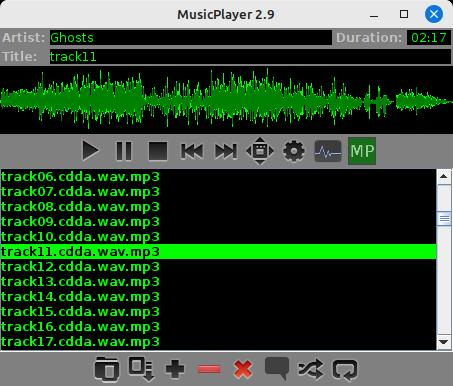
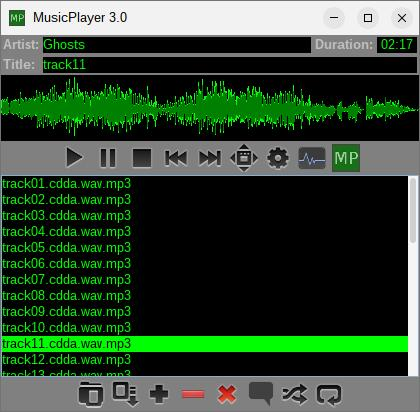
Long-overdue updates to README, in progress

diff --git a/docs/developer_extensions.md b/docs/developer_extensions.md
@@ -1,26 +1,27 @@
 <-- [Back to musicplayer documentation](../README.md)
 
-# Developer overview: Using `app-extensions` to extend the application
+# Developer overview: Using ExtensionManager to extend the application
 
-The abstract `ExtensionManager` class in the `app-extensions` library is deceptively powerful.
+The abstract `ExtensionManager` class in the `swing-extras` library is deceptively powerful.
 This class can scan a given directory for jar files, and then examine those jar files to see
 if they contain an extension class for your application. If so, that class can be loaded dynamically,
 and an instance of the extension that it contains can be provided to your application.
 
 We'll need to create two classes to make use of this:
-  - an implementation of the `AppExtension` interface
+  - an implementation of the `AppExtension` class
   - an implementation of the abstract `ExtensionManager` class
 
 ## Implementing an AppExtension
 
-Let's start by looking at the `AppExtension` interface:
+Let's start by looking at the `AppExtension` class:
 
 ```java
-public interface AppExtension {
+public abstract class AppExtension {
     public AppExtensionInfo getInfo();
-    public List<AbstractProperty> getConfigProperties();
+    protected List<AbstractProperty> createConfigProperties();
     public void onActivate();
     public void onDeactivate();
+    protected void loadJarResources();
 }
 ```
 
@@ -32,10 +33,11 @@ Well, we have to create them!
 
 But first, we deal with the absolute bare minimum required to create a custom `AppExtension`:
 
-- Implement `getInfo()` to return an `AppExtensionInfo` object describing your extension.
-- Implement `getConfigProperties()` to return an optional list of config properties for your extension. (This can be an empty list if your extension doesn't require any).
+- Implement `getInfo()` to return an `AppExtensionInfo` object describing your extension (mandatory!).
+- Implement `createConfigProperties()` to return an optional list of config properties for your extension. (This can be an empty list if your extension doesn't require any).
 - Implement `onActivate()` to do whatever prep work (if any) our extension needs before it gets to work.
 - Implement `onDeactivate()` to do whatever cleanup (if any) our extension needs before it gets shut down.
+- Implement `loadJarResources()` to load whatever jar resources our extension needs (if any)
 
 That's the bare minimum. But, our extension will not be terribly useful if that's all we do. We need to think about
 possible extension points within our application, and write abstract methods here for them.
@@ -124,10 +126,10 @@ of it, and in fact doesn't need to, as long as the extension lives up to the con
 
 Your extension may need to expose some configuration properties to be added to the `PropertiesDialog`, so that
 the user can set options for it. This is not a problem at all. In fact, this is one of the few methods
-that are defined in the `AppExtension` interface:
+that are defined in the `AppExtension` class:
 
 ```java
-public List<AbstractProperty> getConfigProperties();
+protected List<AbstractProperty> createConfigProperties();
 ```
 
 We just have to return a list of `AbstractProperty` instances, and the `AppProperties` class, together
@@ -166,6 +168,9 @@ specifies a readable directory. If so, that directory is scanned for compatible 
 are found are loaded as viable extensions.
 
 ### Specifying the jar directory
+
+(Note: if you ran the installer tarball on a Linux machine, you do not have to manually specify
+this location... the launcher script will do it for you)
 
 Since there is no default value, you have to manually specify the location to be scanned. Let's say we
 want to put extension jars in ~/.MusicPlayer/extensionJars :

diff --git a/docs/developer_overview.md b/docs/developer_overview.md
@@ -2,19 +2,18 @@
 
 # Developer overview: general application design
 
-The musicplayer app relies on three of my libraries:
+The musicplayer app relies heavily on my [swing-extras](https://github.com/scorbo2/swing-extras) library,
+which provides a LOT of neat utilities and custom code I've written in the last 15 years or so. This library
+also provides a powerful extension mechanism that allows applications to make themselves highly extensible.
 
-- [swing-forms](https://github.com/scorbo2/swing-forms) - provides a way to very easily generate user input forms in Java Swing.
-- [swing-extras](https://github.com/scorbo2/swing-extras) - provides a LOT of neat utilities and custom code I've written in the last 15 years or so.
-- [app-extensions](https://github.com/scorbo2/app-extensions) - provides an extension mechanism that allows you to write highly extensible applications.
+swing-extras is licensed under the [MIT license](https://opensource.org/license/mit), and the code for it is available on GitHub, 
+so I invite you to check it out. In this developer guide, we're going
+to be looking pretty closely at the extension mechanism supplied by swing-extras, because it's
+very powerful and quite useful.
 
-All of the above are licensed under the [MIT license](https://opensource.org/license/mit), and the code
-for each of them is available on github, so I invite you to check them out. In this developer guide, we're going
-to be looking pretty closely at `app-extensions`, because it has some really neat capabilities.
-
-Specifically, the `AppProperties` class in `app-extensions` is amazingly useful for saving yourself
+Specifically, the `AppProperties` class is amazingly useful for saving yourself
 a LOT of code. The purpose of this abstract class is to join together a `PropertiesManager` class
-(from `swing-extras`) with an `ExtensionManager` class (from `app-extensions`), and have them work
+(from `swing-extras`) with an `ExtensionManager` class (also from `swing-extras`), and have them work
 together to make your application MUCH easier to extend and configure. For example, in the user guide
 for music player, you probably saw at least one screenshot of the Properties dialog:
 
@@ -48,10 +47,10 @@ and its assistant class, `PropertiesDialog`.
 
 ## ExtensionManager is awesome
 
-Meanwhile, let's move over to the `app-extension` library, which also has a lot
-of very pleasant and powerful surprises. Specifically, we have the abstract
-`ExtensionManager` class, which allows us to dynamically scan a directory at
-startup, looking for jar files that contain extension classes for our application.
+Meanwhile, let's move over to the `ExtensionManager` class, which also has a lot
+of very pleasant and powerful surprises. Specifically, we have the ability
+to dynamically scan a directory at startup, looking for jar files that contain 
+extension classes for our application.
 Each extension can supply its own list of configuration properties, which we can
 combine together with our own application's properties to generate one unified
 `PropertiesDialog` that contains everything. The neat part about this is that
@@ -63,7 +62,7 @@ to sort that out - we get it for free.
 
 ## AppProperties is even awesomer
 
-The `app-extensions` library contains one more class that arguably is the best
+The `swing-extras` library contains one more class that arguably is the best
 part of this whole design: `AppProperties`. This abstract class joins a
 `PropertiesManager` together with a custom `ExtensionManager` together into
 one package, and links them up so that they are aware of each other.

diff --git a/README.md b/README.md
@@ -1,6 +1,6 @@
-# musicplayer
+# MusicPlayer
 
-This is "musicplayer", a 100% Java music player with a UI written in Java Swing. 
+This is "MusicPlayer", a 100% Java music player with a UI written in Java Swing. 
 
 ![MusicPlayer](docs/musicplayer.jpg "MusicPlayer")
 
@@ -18,23 +18,35 @@ Agreed. Go download VLC if you want something extremely solid and full-featured.
 
 I wanted to play music on the tv in my living room, but with interesting and customizable full-screen visualization
 so I could just leave it running and have something nice to look at while I do other stuff. With version 2.x, I 
-also used musicplayer as a testbed for my own [app-extensions](https://github.com/scorbo2/app-extensions) library 
+also used musicplayer as a testbed for my own app-extensions library
+(now part of [swing-extras](https://github.com/scorbo2/swing-extras))
 so I could test out ways to make an application incredibly customizable via dynamically-loaded extensions. I also 
 wanted to prove out the `AppProperties` class from `app-extensions` to really demonstrate how to develop an extremely 
-customizable application while writing surprisingly little UI code (in the case of the properties dialog, almost 
-literally none).
+customizable application while writing surprisingly little UI code (in the case of the properties dialog, and
+the extension manager, almost literally none).
 
 ## How do I get it?
 
-The easiest way is to clone the repo, build it with Maven, and run the jar file:
+You can download an installer tarball for Linux here:
+- [MusicPlayer-3.0.tar.gz](http://www.corbett.ca/apps/MusicPlayer-3.0.tar.gz)
+- Size: TODO MB
+- SHA-1: TODO
+
+Alternatively, you can clone the repo and build the project locally:
 
 ```shell
 git clone https://github.com/scorbo2/musicplayer.git
 cd musicplayer
 mvn package
 cd target
-java -jar musicplayer-3.0.jar
+java -jar musicplayer-3.0.jar # Launch the application manually
 ```
+
+If you have my [make-installer](https://github.com/scorbo2/install-scripts/) scripts installed and you are building
+on Linux, the installer tarball will be generated for you automatically during a build and placed into `target`.
+This is preferable to launching manually as shown above, at least when running on a Linux machine, because the
+installer script will create a launcher wrapper script with proper environment variables set (and you get a nice
+user-friendly desktop icon for easy launching).
 
 ## User guide
 
@@ -45,7 +57,7 @@ java -jar musicplayer-3.0.jar
 
 - [General application design](docs/developer_overview.md)
 - [Making use of `swing-extras` for application configuration](docs/developer_properties.md)
-- [Making use of `app-extensions` to customize the app](docs/developer_extensions.md)
+- [Making use of ExtensionManager to customize the app](docs/developer_extensions.md)
 - [Exercise1: let's write a custom extension!](docs/developer_exercise1.md)
 - [Exercise2: let's write a custom visualizer!](docs/developer_exercise2.md)
 - [Exercise3: a non-trivial visualizer](docs/developer_exercise3.md)

diff --git a/docs/developer_exercise1.md b/docs/developer_exercise1.md
@@ -16,12 +16,16 @@ Now, you can create a new project, and add musicplayer as a dependency:
     <dependency>
         <groupId>ca.corbett</groupId>
         <artifactId>musicplayer</artifactId>
-        <version>2.9</version>
+        <version>3.0</version>
+        <scope>provided</scope>
     </dependency>
 </dependencies>
 ```
 
-(At the time of this writing, 2.9 is the latest available version of the musicplayer code)
+(At the time of this writing, 3.0 is the latest available version of the musicplayer code)
+
+Note that we use the `provided` scope here. This tells Maven that our jar will be loaded in an
+environment where the MusicPlayer code is already loaded and running.
 
 Now, we should be able to create our new extension class by extending the `MusicPlayerExtension` base class:
 
@@ -47,7 +51,11 @@ public class TestExtension extends MusicPlayerExtension {
     }
 
     @Override
-    public List<AbstractProperty> getConfigProperties() {
+    protected void loadJarResources() {
+    }
+    
+    @Override
+    protected List<AbstractProperty> createConfigProperties() {
         return List.of(LabelProperty.createLabel("TestExtension.TestExtension.label", "Hello there! This was loaded dynamically!"));
     }
 
@@ -77,7 +85,7 @@ a directory structure that should be unique to your extension. For this example,
   "name": "Test extension",
   "version": "1.0",
   "targetAppName": "MusicPlayer",
-  "targetAppVersion": "2.9",
+  "targetAppVersion": "3.0",
   "author": "Steve Corbett",
   "shortDescription": "A quick test extension",
   "longDescription": "If this shows up, it means the jar was successfully scanned at startup!"
@@ -99,7 +107,7 @@ an extension location. Let's say `~/.MusicPlayer/extensionJars`. Then, we can re
 tell it where to look for extension jars:
 
 ```shell
-java -DEXTENSIONS_DIR=/home/scorbett/.MusicPlayer/extensionJars -jar musicplayer-2.9.jar
+java -DEXTENSIONS_DIR=/home/scorbett/.MusicPlayer/extensionJars -jar musicplayer-3.0.jar
 ```
 
 On startup, we should hopefully see some promising log output:

diff --git a/docs/user_guide_logging.md b/docs/user_guide_logging.md
@@ -2,8 +2,12 @@
 
 # User guide: configuring logging
 
-If you started musicplayer using the command line, you probably noticed a few log messages getting generated
-to the console:
+**NOTE**: if you installed MusicPlayer using the installer script, you can ignore these configuration
+instructions. The installer script will have created a default logging setup for you, with log output
+being directed to a log file in your ~/.MusicPlayer directory.
+
+However, if you started musicplayer using the command line, then you probably noticed a few log 
+messages getting generated to the console:
 
 ```shell
 $ java -jar musicplayer-2.9.jar 
@@ -14,7 +18,6 @@ $ java -jar musicplayer-2.9.jar
 2025-04-06 03:54:59 P.M. [INFO] VisualizationThread created; rendering at 1,920x1,080
 ```
 
-If you started musicplayer by double-clicking the jar file, however, you probably didn't see any log output.
 This is because, by default, log output goes to stdout only (and also to `LogConsole`, which we'll look at later).
 
 The musicplayer application comes with a built-in `logging.properties`, which you can find in the resources

diff --git a/docs/developer_exercise2.md b/docs/developer_exercise2.md
@@ -101,7 +101,7 @@ in our `TestExtension` class:
 
 ```java
 @Override
-public List<AbstractProperty> getConfigProperties() {
+protected List<AbstractProperty> createConfigProperties() {
     List<AbstractProperty> props = new ArrayList<>();
     props.add(new TextProperty("TestExtension.General.text", "Text to render:", "Hello there!", 14, 1));
     props.add(new ColorProperty("TestExtension.General.bgColor", "Background:", ColorProperty.ColorType.SOLID, Color.BLACK));
@@ -239,8 +239,6 @@ to those changes, even if our visualizer is running when those changes are made!
 
 ## Summary
 
-We've barely scratched the surface of what's possible with the `swing-forms`, `swing-extras`, and most especially
-the `app-extension` libraries. But, we have covered the basics, and we've even created a custom visualizer
+We've barely scratched the surface of what's possible with the `swing-extras`, library. 
+But, we have covered the basics, and we've even created a custom visualizer
 that actually works! So, the sky is the limit... go see what you can make!
-
-

diff --git a/docs/developer_properties.md b/docs/developer_properties.md
@@ -2,7 +2,7 @@
 
 # Developer overview: Using `swing-extras` for application configuration
 
-We start by extending the abstract `AppProperties` class from the `app-extensions` library.
+We start by extending the abstract `AppProperties` class from the `swing-extras` library.
 There is only one abstract method that we need to implement:
 
 ```java
